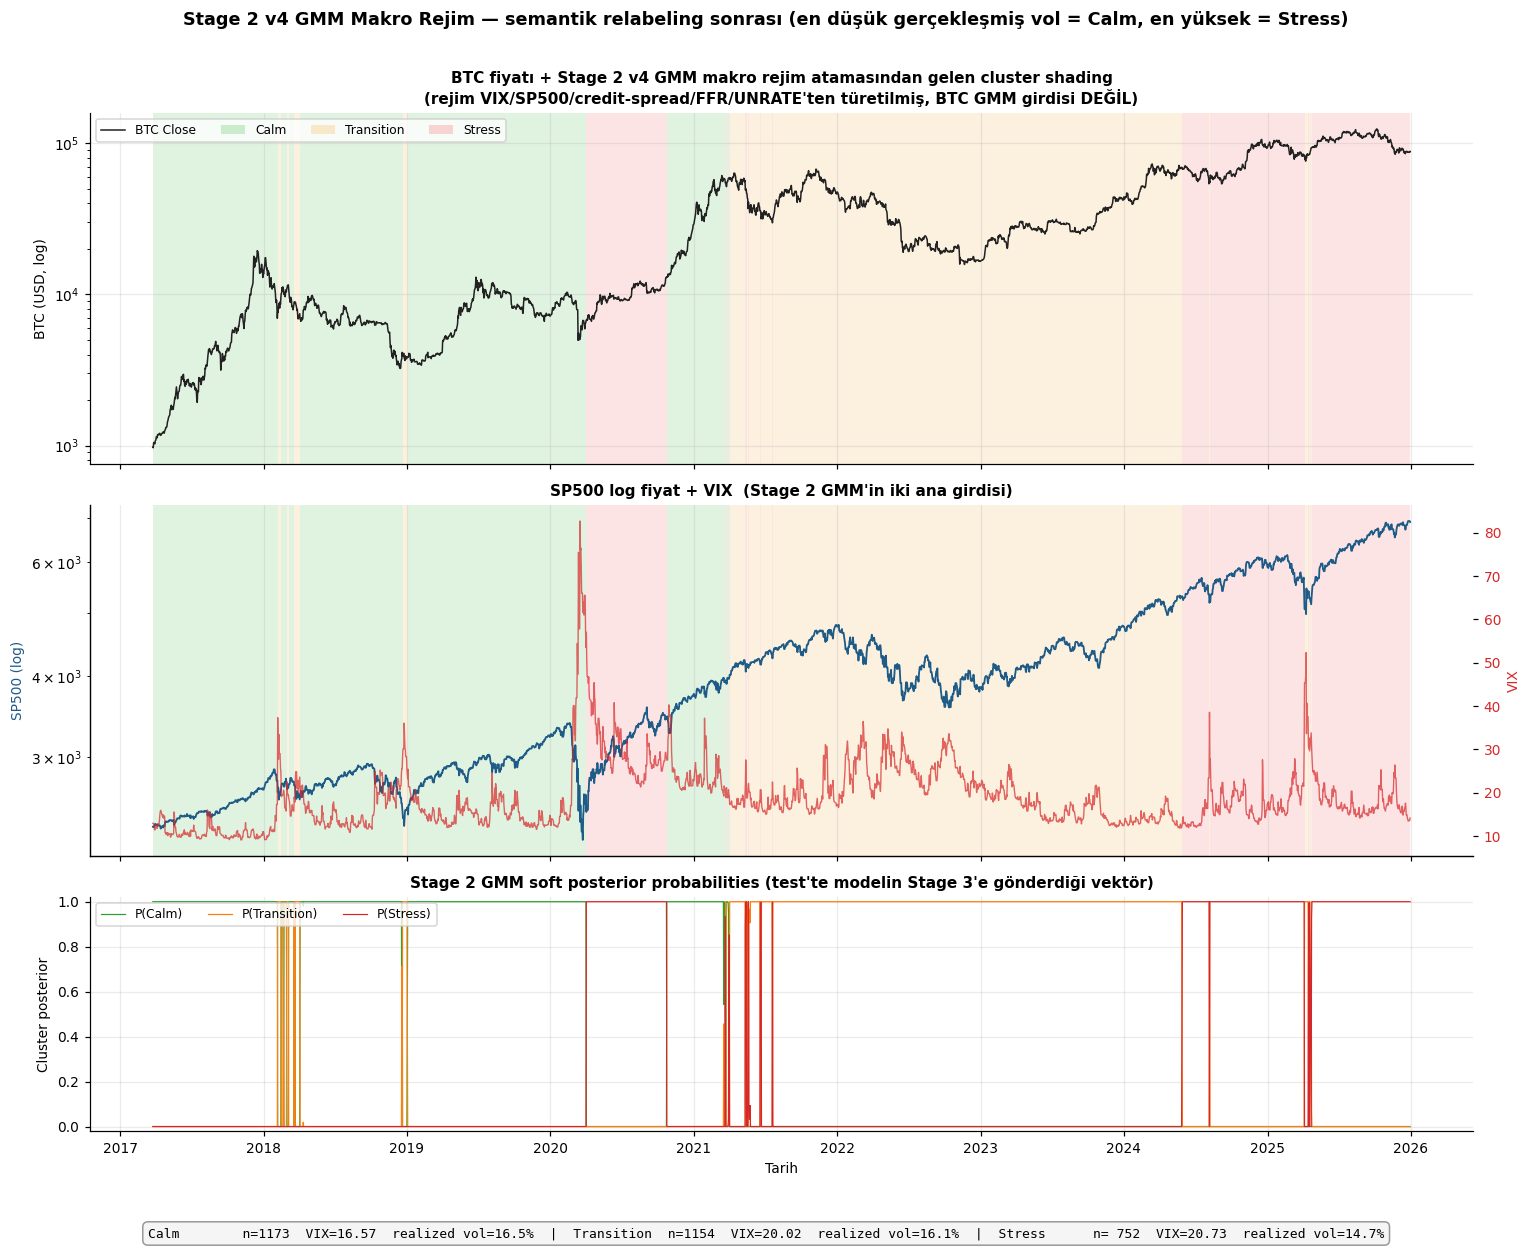
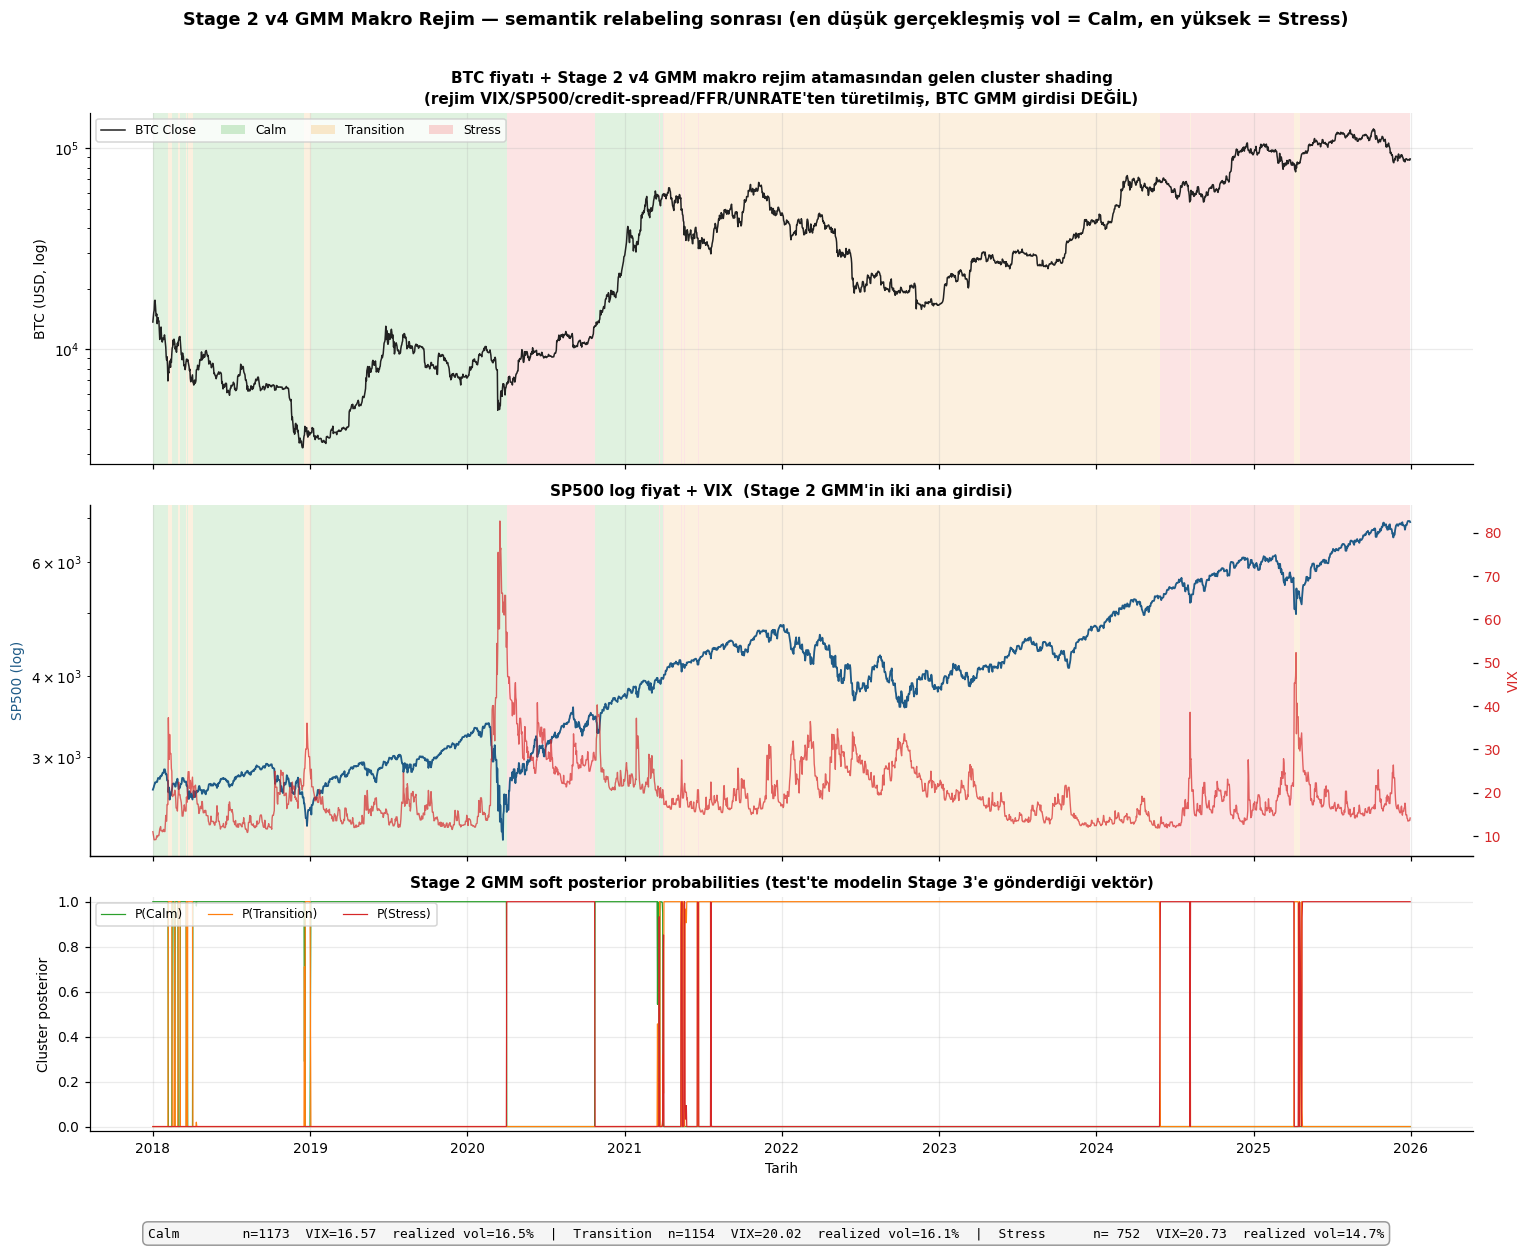
plot: monthly_fred_overview window 2018-01-01 →
2014-09 başlangıçlı pencere log skala bile yetmiyordu (BTC $400 →
$100K, 250x), erken dönem detaylar ezilmiş, son dönem cluster
shading toplu kırmızı görünüyordu.

2018-01-01 başlangıcı (post-2017 bull peak, "modern BTC era") ile
2806 günlük pencere bull-bear döngülerini açıkça gösteriyor:
  2018 başı     bear başlangıç (Stress/Trans, kırmızı/turuncu)
  2019-2020 ön  Calm consolidation (yeşil)
  2020 Mar      COVID anı kırmızı geçiş
  2020-2021     Calm bull rally
  2022          Fed hike + BTC -70% (Stress)
  2023          toparlanma (mixed)
  2024-2025     BTC bull olsa da Stress baskın (VIX yüksek, makro
                belirsizlik) — Stage 2 GMM'in BTC fiyatına değil
                makroya baktığının net görsel kanıtı

Cluster relabeling tüm veride (5 sürüm × 11 yıl) yapılıp sonra
dilim alındığı için semantic stability korundu.

https://claude.ai/code/session_01GtNYjrxTRAqn5NyD66BrER

diff --git a/scripts/plot_monthly_fred.py b/scripts/plot_monthly_fred.py
@@ -84,14 +84,24 @@ def shade_clusters(ax, dates, semantic_hard):
 
 
 def main() -> None:
-    btc = pd.read_csv(PROJECT_ROOT / "data" / "processed" / "btc_aligned.csv",
-                      index_col=0, parse_dates=True)
-    s2 = pd.read_csv(PROJECT_ROOT / "data" / "labels" / "btc_oof_regime_posterior.csv",
-                     index_col=0, parse_dates=True)
-    common = btc.index.intersection(s2.index)
-    btc = btc.loc[common]; s2 = s2.loc[common]
+    PLOT_START = "2018-01-01"  # 2017 bull peak sonrası — "modern BTC era"
 
-    idx_to_name, semantic_hard, stats = relabel_clusters(s2, btc)
+    btc_full = pd.read_csv(PROJECT_ROOT / "data" / "processed" / "btc_aligned.csv",
+                           index_col=0, parse_dates=True)
+    s2_full = pd.read_csv(PROJECT_ROOT / "data" / "labels" / "btc_oof_regime_posterior.csv",
+                          index_col=0, parse_dates=True)
+    common_full = btc_full.index.intersection(s2_full.index)
+    btc_full = btc_full.loc[common_full]; s2_full = s2_full.loc[common_full]
+
+    # Cluster semantic mapping: tüm veriye göre yap (stability), sonra slice et
+    idx_to_name, semantic_hard_full, stats = relabel_clusters(s2_full, btc_full)
+    # Apply plot window
+    plot_mask = btc_full.index >= PLOT_START
+    btc = btc_full.loc[plot_mask]
+    s2 = s2_full.loc[plot_mask]
+    semantic_hard = semantic_hard_full[np.asarray(plot_mask)]
+    print(f"Plot window: {btc.index.min().date()} → {btc.index.max().date()}  "
+          f"({len(btc)} days)")
     print(f"Cluster mapping (raw idx → semantic):  {idx_to_name}")
     for name in ORDER:
         s = stats[name]
